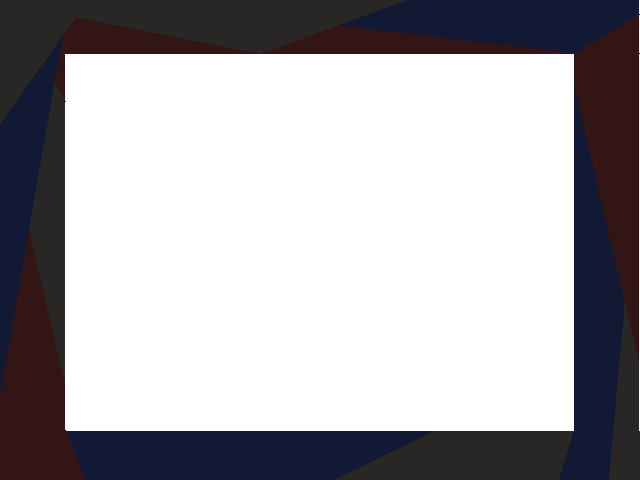
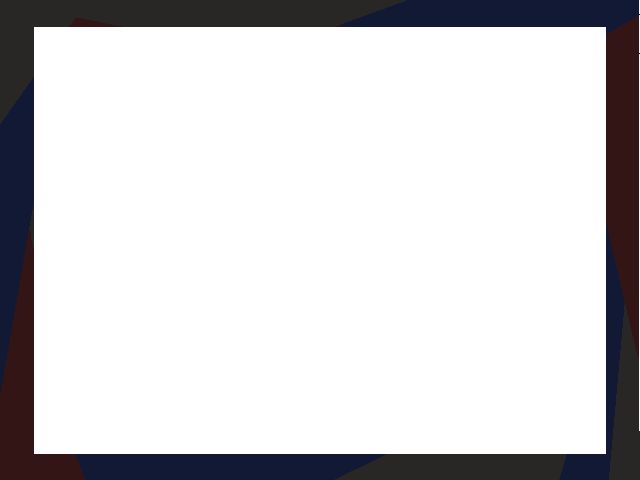
ui update, time display, time increase on ship hit

Changed region(s): [[0.0312, 0.0312, 0.9688, 0.9688]]

diff --git a/src/scenes/Play.js b/src/scenes/Play.js
@@ -16,6 +16,7 @@ class Play extends Phaser.Scene{
         this.load.image('starfield', './assets/starfieldbackground.png');
         this.load.image('parallax', './assets/stars.png'); 
         this.load.image('uiUpdate', './assets/uiUpdate.png');
+        
         this.load.spritesheet('explosion', './assets/explosion.png', {frameWidth: 64, frameHeight: 32, startFrame: 0, endFrame: 9});
         this.load.spritesheet('circleExplosion', './assets/circleExplosion.png', {frameWidth:96, frameHeight: 96, startFrame: 0, endFrame:9});
         this.load.spritesheet('yellowExplosion', './assets/yellowExplosion.png', {frameWidth:96, frameHeight: 96, startFrame: 0, endFrame:9});
@@ -54,10 +55,13 @@ class Play extends Phaser.Scene{
         // green UI background
         this.add.rectangle(0, borderUISize + borderPadding, game.config.width, borderUISize * 2, 0x00FF00).setOrigin(0, 0);
         // white borders
-        this.add.rectangle(0,0, game.config.width, borderUISize, 0xFFFFFF).setOrigin(0,0);
-        this.add.rectangle(0, game.config.height - borderUISize, game.config.width, borderUISize, 0xFFFFFF).setOrigin(0,0);
-        this.add.rectangle(0,0, borderUISize, game.config.height, 0xFFFFFF).setOrigin(0,0);
-        this.add.rectangle(game.config.width - borderUISize, 0, borderUISize, game.config.height, 0xFFFFFF).setOrigin(0,0);
+        // this.add.rectangle(0,0, game.config.width, borderUISize, 0xFFFFFF).setOrigin(0,0);
+        // this.add.rectangle(0, game.config.height - borderUISize, game.config.width, borderUISize, 0xFFFFFF).setOrigin(0,0);
+        // this.add.rectangle(0,0, borderUISize, game.config.height, 0xFFFFFF).setOrigin(0,0);
+        // this.add.rectangle(game.config.width - borderUISize, 0, borderUISize, game.config.height, 0xFFFFFF).setOrigin(0,0);
+
+        //updated UI with image
+        this.newUI =this.add.tileSprite(0,0, 640, 480, 'uiUpdate').setOrigin(0,0);
 
 
         // keyboard inputs
@@ -78,12 +82,12 @@ class Play extends Phaser.Scene{
         this.p1Score = 0;
 
         //high score 
-        this.p1HScore = 0; //subject to change? 
+        //this.p1HScore = 0; //subject to change? 
 
         //scoreboard
-        let scoreConfig = {
-            fontFamily: "Courier",
-            fontSize: '28px',
+        this.scoreConfig = {
+            fontFamily: "Georgia",
+            fontSize: '22px',
             backgroundColor: '#F3B141',
             color: "#843605",
             align: "right",
@@ -93,36 +97,42 @@ class Play extends Phaser.Scene{
             fixedWidth: 100
         }
 
-        //high score config?
-
-        let hscoreConfig = {
-            fontFamily: "Courier",
-            fontSize: '28px',
-            backgroundColor: '#F3B141',
-            color: "#843605",
-            align: "right",
-            padding:{
-                top: 5, bottom: 5
-            },
-            fixedWidth: 100
-        }
         
-        this.scoreLeft = this.add.text(borderPadding + borderUISize, borderUISize+borderPadding*2, this.p1Score, scoreConfig);
-        this.scoreRight = this.add.text(borderPadding+borderUISize * 15, borderUISize + borderPadding* 2, this.p1HScore, hscoreConfig);
+        this.scoreLeft = this.add.text(borderPadding + borderUISize, borderUISize+borderPadding*2, this.p1Score, this.scoreConfig);
+        //this.scoreRight = this.add.text(borderPadding+borderUISize * 15, borderUISize + borderPadding* 2, this.p1HScore, hscoreConfig); // displays a score of zero
 
         //game over
         this.gameOver = false;
 
+
+
+
         // clock
-        scoreConfig.fixedWidth = 0;
+        this.scoreConfig.fixedWidth = 0;
         this.clock = this.time.delayedCall(game.settings.gameTimer, () =>{
             this.add.text(game.config.width/2, game.config.height/2, 'GAME OVER',
-            scoreConfig).setOrigin(0.5);
-            this.add.text(game.config.width/2, game.config.height/2 + 64, 'Press (R) to Restart or <- for Menu', scoreConfig).setOrigin(0.5);
+            this.scoreConfig).setOrigin(0.5);
+            this.add.text(game.config.width/2, game.config.height/2 + 64, 'Press (R) to Restart or <- for Menu', this.scoreConfig).setOrigin(0.5);
             this.gameOver = true;
         }, null, this);
 
-        //timer
+        let clockConfig = {
+            fontFamily: "Georgia",
+            fontSize: '20px',
+            backgroundColor: '#000000',
+            color: "#FFFFFF",
+            align: "right",
+            padding:{
+                top: 5, bottom: 5
+            },
+            fixedWidth: 100
+        }
+
+        //Display Clock
+        this.elapsed = this.time.now;
+        this.timeRight = this.add.text(borderPadding+borderUISize * 15, borderUISize + borderPadding* 2, this.elapsed, clockConfig);
+
+      
 
 
 
@@ -132,6 +142,11 @@ class Play extends Phaser.Scene{
     
 
     update(){
+
+        this.timeRight.text = (Math.floor(game.settings.gameTimer/1000))- Math.floor(this.time.now/1000 - this.elapsed/1000);
+        //console.log(Math.floor(this.time.now/1000));
+        //console.log(this.clock.getProgress());
+        
         // check key input for restart
         if(this.gameOver && Phaser.Input.Keyboard.JustDown(keyR)){
             this.scene.start("playScene");
@@ -147,6 +162,7 @@ class Play extends Phaser.Scene{
         this.ship02.update();
         this.ship03.update();
         this.owoShip.update();
+        
 
         if(this.checkCollision(this.p1Rocket, this.ship03)){
             //console.log("kaboom ship 03")
@@ -232,6 +248,18 @@ class Play extends Phaser.Scene{
         // add score and repaint score display
         this.p1Score += ship.points;
         this.scoreLeft.text = this.p1Score;
+
+        //add time
+        game.settings.gameTimer += 13000;
+
+        let x = this.clock.getRemaining() +13000;
+
+        this.clock = this.clock.reset({delay: x, callback:() =>{
+            this.add.text(game.config.width/2, game.config.height/2, 'GAME OVER',
+            this.scoreConfig).setOrigin(0.5);
+            this.add.text(game.config.width/2, game.config.height/2 + 64, 'Press (R) to Restart or <- for Menu', this.scoreConfig).setOrigin(0.5);
+            this.gameOver = true;
+        }, callbackScope: this});
         
         
     }

diff --git a/src/scenes/Menu.js b/src/scenes/Menu.js
@@ -14,6 +14,7 @@ class Menu extends Phaser.Scene{
                 this.load.audio('sfx_weirdExplosion', './assets/weirdExplosion.wav');
                 this.load.audio('sfx_yellowExplosion', './assets/yellowExplosion.wav');
                 this.load.audio('sfx_owoshiphit', './assets/owoshipHit.wav');
+                this.load.image('menuUpdate', './assets/newMenu.png');
                 /*
                     Used 'sfxr' program to create the 4 new SFX http://drpetter.se/project_sfxr.html
                 */
@@ -24,10 +25,9 @@ class Menu extends Phaser.Scene{
 
                 //menu text
                 let menuConfig = {
-                    fontFamily: "Courier",
+                    fontFamily: "Georgia",
                     fontSize: '25px',
-                    backgroundColor: '#F3B141',
-                    color: "#843605",
+                    color: "#FFFFFF",
                     align: "right",
                     padding:{
                         top: 5, bottom: 5
@@ -36,11 +36,13 @@ class Menu extends Phaser.Scene{
                 }
 
                 //show text
-                this.add.text(game.config.width/2, game.config.height/2 - borderUISize - borderPadding, 'ROCKET PATROL', menuConfig).setOrigin(0.5);
-                this.add.text(game.config.width/2, game.config.height/2, 'Use <--> arrows to move and (F) to fire', menuConfig).setOrigin(0.5);
-                menuConfig.backgroundColor = '#00FF00';
-                menuConfig.color = '#000';
-                this.add.text(game.config.width/2, game.config.height/2 + borderUISize + borderPadding, 'Press <- for Novice or -> for Expert', menuConfig).setOrigin(0.5);
+                this.add.text(game.config.width/2, game.config.height/2 - borderUISize - borderPadding, 'WELCOME TO ROCKET PATROL!', menuConfig).setOrigin(0.5);
+                this.add.text(game.config.width/2, game.config.height/2, 'Use (<-)   (->) arrows to move and (F) to fire', menuConfig).setOrigin(0.5);
+                menuConfig.backgroundColor = '#000000';
+                menuConfig.color = '#FFFFFF';
+                this.add.text(game.config.width/2, game.config.height/2 + borderUISize + borderPadding, 'Press (<-) for Novice or (->) for Expert', menuConfig).setOrigin(0.5);
+
+                this.newMenu = this.add.tileSprite(0,0, 640, 480, 'menuUpdate').setOrigin(0,0);
 
 
                 // define keys 
